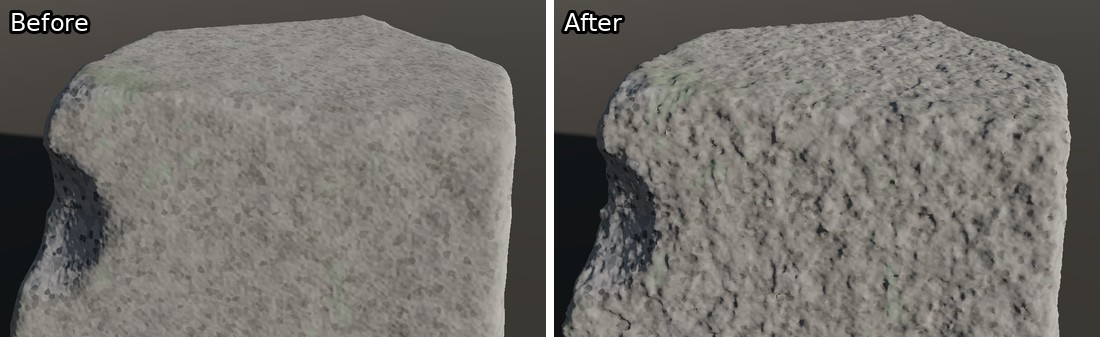
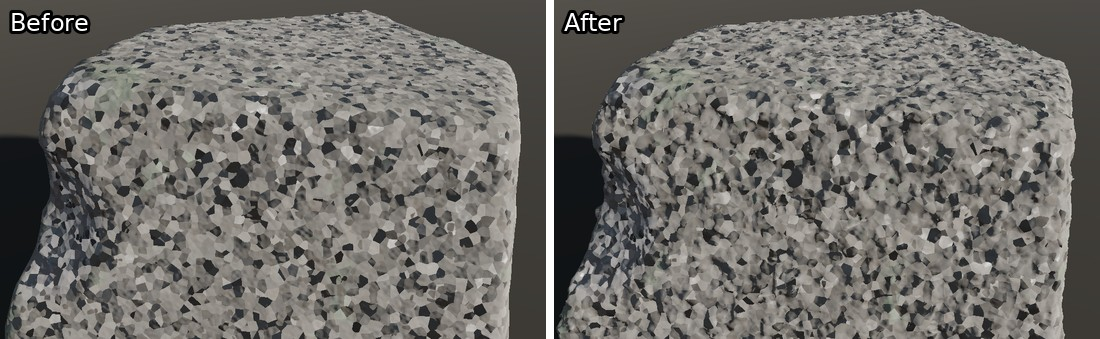
Docs: rock close-up reshoot, breakable stones slider
Claude-Session: https://claude.ai/code/session_019a7Xd2PZ5gvYQ3NZ7og5rU

diff --git a/site/content/features/rocks.md b/site/content/features/rocks.md
@@ -13,11 +13,11 @@ summary: "Rocks and stones as geometry, broken along each rock type's joints and
 
   *Rock generator: one rock type per row and one family per column, from sharp fresh fragments to rounded cobbles and pebbles.*
 
-- **Close-up detail** (`RockField3D`: `close_up_enabled`, `close_up_radius`): stones near the camera get real geometry for their grain: crystals, weathering pits, hairline cracks, spalled flakes and stepped fresh breaks, so the outline breaks too.
+- **Close-up detail** (`RockField3D`: `close_up_enabled`, `close_up_radius`): stones near the camera get real geometry for their grain: crystals whose cleavage faces glint in low sun, weathering pits, hairline cracks, spalled flakes and stepped fresh breaks, so the outline breaks too.
 
   ![A granite block's face at about 1 m in low sun, base shape and close-up shape, raster](media/rocks-closeup.jpg)
 
-  *Close-up detail: the same granite face gains pits, hairline cracks and a broken top edge.*
+  *Close-up detail: the same granite face gains crystal relief, pits, hairline cracks and a broken top edge.*
 
 - **Ground contact and aspect** (rock material: `contact_height`, `aspect_strength`): stones blend into the ground with a soil band at their foot and take wetness and snow from the weather; moss grows on shaded faces and lichen on sunlit ones.
 
@@ -25,4 +25,9 @@ summary: "Rocks and stones as geometry, broken along each rock type's joints and
 
 - **Rock fields** (`RockField3D`: `rockfall_`, `scree_`, `glacial_`, `river_`, `shore_`, `cliff_` layers; `layer_enabled`): rocks placed by the processes that put them there: rockfall, scree, glacial till, river beds, shores and cliff courses, streamed round the camera with colliders near it.
 - **Breakable stones** (`RockField3D.break_stone`): stones split into pieces along rough rock breaks, and layered rock into slabs.
+
+  ![A granite block about 3 m away, whole and broken where it lay, raster](media/rocks-break.jpg)
+
+  *Breakable stones: the block breaks into a pile of angular pieces where it stood.*
+
 - **Tors and coasts** (`layer_enabled`: `LAYER_TOR`, `LAYER_COAST`): tors and outcrops on convex crests, with granite woolsack blocks and weathering pans; sea stacks, arches and wave-cut platforms on rocky coasts.
